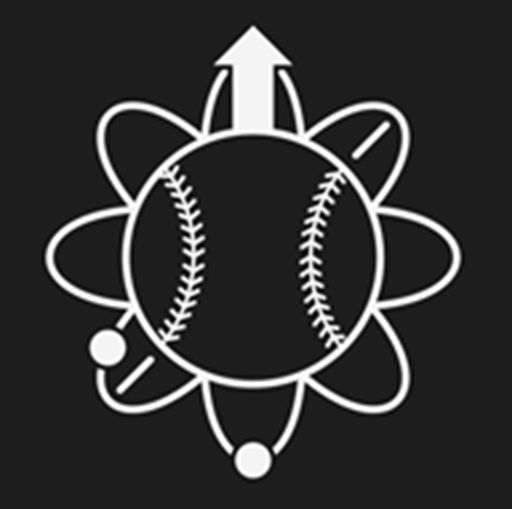
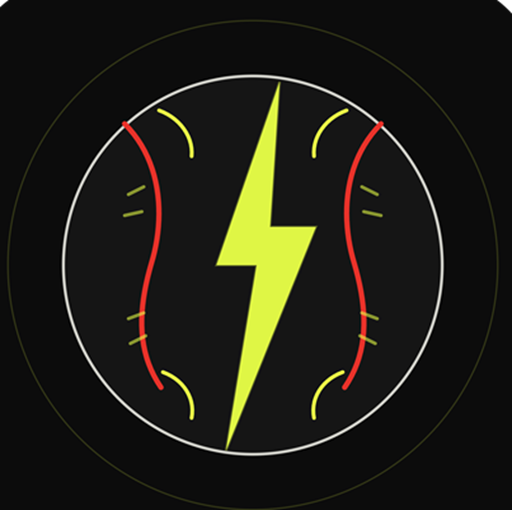
Add files via upload

Changed region(s): [[0.0625, 0.0295, 0.9062, 0.943], [0.9688, 0.0, 1.0, 0.0295], [0.0, 0.0, 0.0312, 0.0295]]

diff --git a/sw.js b/sw.js
@@ -1,4 +1,4 @@
-const CACHE_NAME = 'prospect-forge-v5';
+const CACHE_NAME = 'prospect-forge-v6';
 const STATIC_ASSETS = [
   'index.html',
   'manifest.json',